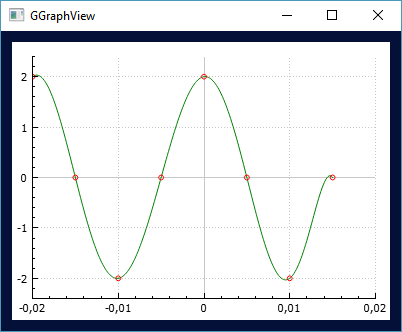
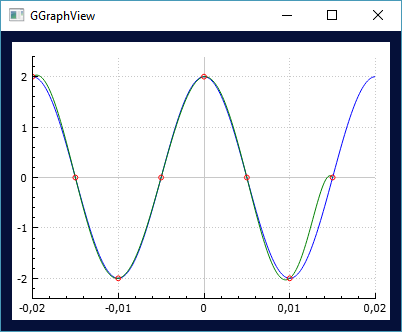
Initial Commit

diff --git a/Interpolation/src/GProcess.cpp b/Interpolation/src/GProcess.cpp
@@ -24,7 +24,7 @@ GProcess* GProcess::Instance() {
 }
 //===============================================
 void GProcess::run() {
-    GSignal::Instance()->sinus();
+    GSignal::Instance()->cosinus();
     QVector<double> m_x = GSignal::Instance()->getX();
     QVector<double> m_y = GSignal::Instance()->getY();
     double m_xMin = GSignal::Instance()->getXmin();
